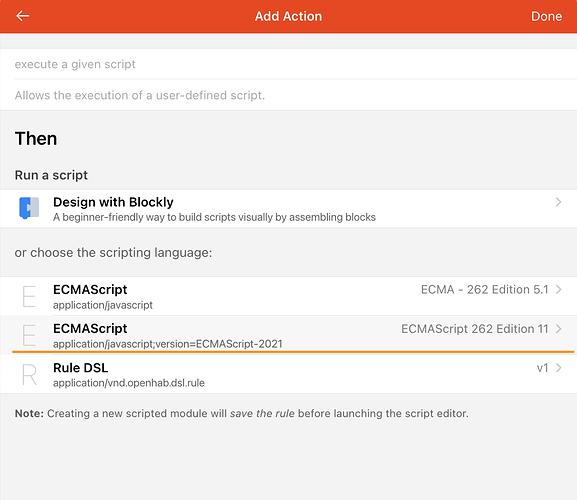
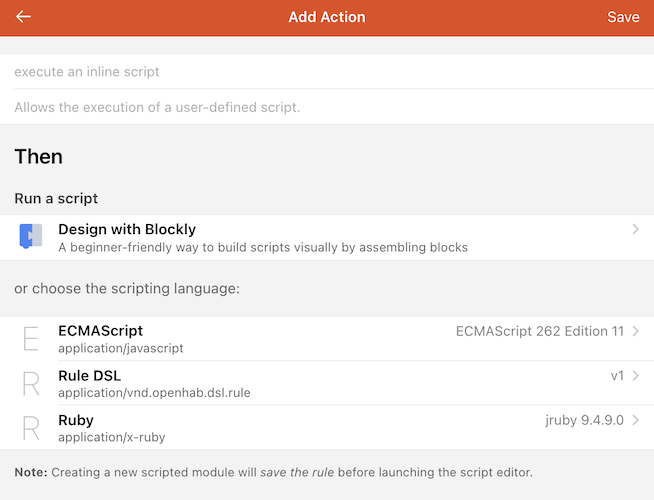
Add JRuby examples in rules_advanced.md (#2451)
* Add JRuby examples in rules_advanced.md

* requested changes

* Apply requested changes

* address review change requests

---------

diff --git a/tutorials/getting_started/rules_advanced.md b/tutorials/getting_started/rules_advanced.md
@@ -16,18 +16,17 @@ For what ever reason, openHAB has you covered with text based Script Actions and
 openHAB supports a growing list of programming languages in which rules can be written.
 openHAB comes with the following languages to choose from:
 
-| Language                                                                 | Details                                                                                                                                                                                                                                             | Intended Audience                                                                                                    |
-|--------------------------------------------------------------------------|-----------------------------------------------------------------------------------------------------------------------------------------------------------------------------------------------------------------------------------------------------|----------------------------------------------------------------------------------------------------------------------|
-| [Blockly]({{base}}/configuration/blockly/)           | See the previous page                                                                                                                                                                                                                               | Non-developers                                                                                                       |
-| [Rules DSL]({{base}}/configuration/rules-dsl.html)   | A programming language developed specifically for openHAB based on the Xtend.                                                                                                                                                                       | Long time openHAB users                                                                                              |
-| [ECMAScript 5.1]({{base}}/configuration/jsr223.html) | An older version of JavaScript built into Java Virtual Machine 14 and before. It's the language Blockly "compiles" into which can be a powerful learning tool (i.e. build a rule in Blockly and examine the code it generates to see how it works). | Not recommended for use, will go away at sometime soon (Blockly will be updated at that time to use an alternative). |
+| Language                                           | Details                                                                                                       | Intended Audience       |
+| -------------------------------------------------- | ------------------------------------------------------------------------------------------------------------- | ----------------------- |
+| [Blockly]({{base}}/configuration/blockly/)         | See the previous page                                                                                         | Non-developers          |
+| [Rules DSL]({{base}}/configuration/rules-dsl.html) | A programming language developed specifically for openHAB based on [Xtend](https://eclipse.dev/Xtext/xtend/). | Long time openHAB users |
 
 In addition to these default choices, one can install a number of different languages as an Automation add-on.
-Such diverse languages as Python, Ruby, Groovy, Java, and more are available with more to come.
+Such diverse languages as [JavaScript](/addons/automation/jsscripting/), [Ruby](/addons/automation/jrubyscripting), [Python](/addons/automation/jythonscripting/), [Groovy](/addons/automation/groovyscripting/), Java, and more are available with more to come.
 See the add-on docs for the reference guide and specific information for how to use each individual add-on.
 Take note, not all automation add-ons support writing rules in the UI.
 
-For the rest of this tutorial we will use the [JavaScript Scripting add-on](/addons/automation/jsscripting/) which implements ECMAScript 2021 for Script Actions and Script Conditions in UI rules.
+For the rest of this tutorial we will show how to use the [JavaScript Scripting add-on](/addons/automation/jsscripting/) which implements ECMAScript 2021, and [JRuby Scripting add-on](/addons/automation/jrubyscripting) for Script Actions and Script Conditions in UI rules.
 See the add-on's reference for how to write rules in text files which is outside the scope of this tutorial.
 
 ## Installation
@@ -52,8 +51,26 @@ These libraries come in various forms and are installed in different ways but th
 - abstract some of the sometimes verbose series of steps requires to do something (e.g. access an Item's metadata) into a single function call.
 
 See the automation add-on's reference for how to access and install the Helper Library for your language of choice.
+
+:::: tabs
+
+::: tab JS
+
 In the case of JavaScript Scripting, the Helper Library comes with the add-on (nothing to install separately) and it is automatically imported into your rules for you (advanced users can turn off that auto import in MainUI Settings -> JS Scripting).
 To get the latest version of the Helper Library instead of waiting for the next release of OH, it can be installed using `npm`.
+
+:::
+
+::: tab JRuby
+
+Ruby scripting is implemented using the JRuby Scripting add-on.
+It will install its helper library by default, and it is automatically imported into your rules.
+The specific version used, along with any additional Ruby Gems, can be configured in Main UI Settings -> JRuby Scripting by modifying the `gems` setting.
+
+:::
+
+::::
+
 Again, see the add-on's reference for details.
 
 ## Creating a Rule
@@ -76,26 +93,51 @@ We will use the same trigger from the Blockly tutorial.
 
 ### Then: Actions
 
-Just like in Blockly, we will create a new Action but instead of choosing Blockly, we will choose ECMAScript 2021.
+Just like in Blockly, we will create a new Action but instead of choosing Blockly, we will choose `ECMAScript` or `Ruby`.
 
 ![select language](images/rules-advanced-select-lang.png)
 
 This will open a blank text field where you can start typing your code.
 This text field provides text highlighting and some code completion which helps with coding.
 
+As with the Blockly example, we want to start the rule using a log statement we can see in openhab.log when the rule runs.
+
+:::: tabs
+
+::: tab JS
+
 As previously mentioned, the Helper Library for this language comes with the add-on and is imported by default, so see the [JavaScript Scripting add-on's reference](/addons/automation/jsscripting/) for the full guide on how to do anything you might want to do.
 For help with general JavaScript coding, there are tons of tutorials and reference documents on the web a search away.
 
-As with the Blockly example, we want to start the rule using a log statement we can see in openhab.log when the rule runs.
 One can either use the [log actions](/addons/automation/jsscripting/#log) but most will find it easiest to use the more JavaScript native [`console`](/addons/automation/jsscripting/#console).
 
 ```javascript
 console.info('Motion was detected');
 ```
 
+:::
+
+::: tab JRuby
+
+If you are new to Ruby, check out [Ruby Basics](https://openhab.github.io/openhab-jruby/main/file.ruby-basics.html) for a quick overview of the language.
+The Ruby language and the [JRuby Helper Library](https://openhab.github.io/openhab-jruby/) offers a streamlined syntax for writing file-based and UI-based rules, making it easy and intuitive to work with openHAB constructs, while also delivering the full features of the Ruby language.
+
+```ruby
+logger.info "Motion was detected"
+```
+
+:::
+
+::::
+
 Save and test the rule by running it manually and verify you see this statement in the logs.
 
-Next we want to `sendCommand` to the light to turn it on.
+Next we want to send a command to the light to turn it on.
+
+:::: tabs
+
+::: tab JS
+
 Reading the docs we see that access to the Item registry is provided through [`Items`](/addons/automation/jsscripting/#items) where we can get access to a JavaScript Object that represents the Item.
 This Object has a `sendCommand()` function that takes the command.
 
@@ -104,9 +146,36 @@ console.info('Motion was detected');
 items.getItem('FrontPorchLight').sendCommand('ON');
 ```
 
+:::
+
+::: tab JRuby
+
+In JRuby, openHAB Items are represented directly by their names.
+You can also access them through the [items](https://openhab.github.io/openhab-jruby/main/OpenHAB/DSL.html#items-class_method) registry so you can find them using a string.
+The Item object has a generic [#command](https://openhab.github.io/openhab-jruby/main/OpenHAB/Core/Items/GenericItem.html#command-instance_method) method and also command methods specific for each item type in openHAB.
+
+```ruby
+logger.info "Motion was detected"
+FrontPorchLight.on # this sends the ON command to the Item
+
+# The following lines do the same thing
+# FrontPorchLight.command ON
+# items["FrontPorchLight"].on
+# items["FrontPorchLight"].command ON
+```
+
+:::
+
+::::
+
 Save and test and verify you see the log statement and the Item receive an ON command.
 
 Now we want to create a Timer to go off in 30 minutes.
+
+:::: tabs
+
+::: tab JS
+
 We find the Timer creation documented under [ScriptExecution](/addons/automation/jsscripting/#scriptexecution-actions).
 A Timer will execute a block of code passed to it as the second argument at the time specified by the first argument.
 
@@ -137,10 +206,37 @@ var lightsOut = function() {
 actions.ScriptExecution.createTimer(time.ZonedDateTime.now().plusMinutes(30), lightsOut);
 ```
 
+:::
+
+::: tab JRuby
+
+Timers are created by calling the [after](https://openhab.github.io/openhab-jruby/main/OpenHAB/DSL.html#after-class_method) method.
+It accepts a [Duration](https://openhab.github.io/openhab-jruby/main/OpenHAB/CoreExt/Java/Duration.html), a Ruby [Time](https://docs.ruby-lang.org/en/master/Time.htmll), or a Java [ZonedDateTime](https://openhab.github.io/openhab-jruby/main/OpenHAB/CoreExt/Java/ZonedDateTime.html) object to specify when the timer should execute.
+Most of the time, a Duration is used, and the helper library offers a [convenient syntax](https://openhab.github.io/openhab-jruby/main/index.html#durations), e.g. `30.minutes`, to create a Duration object.
+
+```ruby
+logger.info "Motion was detected"
+FrontPorchLight.on
+
+after 30.minutes do
+  logger.info "No more motion, turning off the light"
+  FrontPorchLight.off
+end
+```
+
+:::
+
+::::
+
 Save and test that you see the log statement and the Item receive the `ON` command and 30 minutes later the second log statement and the `OFF` command.
 (hint, change the time passed to the timer to something smaller to make testing easier then change it back once things are working).
 
 Now all we are lacking is the ability to reschedule that timer if motion is seen again in the 30 minute period.
+
+:::: tabs
+
+::: tab JS
+
 Looking back at the docs we find the [cache](/addons/automation/jsscripting/#cache).
 This is a map of key/value pairs that exists outside of the rule.
 Given that position it is able to share data between different rules or between runs of the same rule.
@@ -174,18 +270,53 @@ Another benefit of saving the timer in the `cache` is that it will be cancelled 
 This will prevent the timer from executing after the original script had been removed or reloaded.
 Care must still be taken within the timer function not to reschedule itself if it has been cancelled.
 
+:::
+
+::: tab JRuby
+
+In JRuby, an easy way to reschedule the same timer is done by providing a unique `id` to the timer.
+This is called a [reentrant timer](https://openhab.github.io/openhab-jruby/main/OpenHAB/DSL.html#reentrant-timers).
+When [after](https://openhab.github.io/openhab-jruby/main/OpenHAB/DSL.html#after-class_method) with an `id` is executed the first time, a new timer will be created.
+Subsequent executions will reschedule the same timer instead of creating a new timer.
+
+The most convenient `id` to use is the Item object for which the timer is operating, but you can use anything as the ID, e.g. a String, a number, the rule uid, etc.
+
+```ruby
+logger.info "Motion was detected"
+FrontPorchLight.on
+
+after 30.minutes, id: FrontPorchLight do |timer|
+  logger.info "No more motion, turning off the light"
+  timer.id.off # We can do this because the Timer's id was set to the item object
+               # It is the same as FrontPorchLight.off
+end
+```
+
+The JRuby helper library manages the timer and rescheduling internally to reduce the need for repetitive code.
+Full flexibility to work and manipulate the timer is available for more advanced use.
+
+:::
+
+::::
+
 Save and test that the rule sends the on and off commands as described.
 
 ### But only if: Conditions
 
 Now we want the rule to only execute between sunset and 23:00.
-Create a new Condition and choose ECMAScript 2021 as the language.
+Create a new Condition and choose `ECMAScript` or `Ruby` as the language.
+This doesn't have to be the same language as the one chosen for the Script Action above.
 Just like with the Script Action, the Helper Library is available by default.
 
 As discussed in the Blockly tutorial, the last line of a condition must evaluate to `true` or `false`.
 When `true` the rule will run, otherwise it's skipped.
 
 Sunset is available in an Item called `Sunset` and we need to test to see if `now` is between then and `23:00`.
+
+:::: tabs
+
+::: tab JS
+
 In order to do that we need to convert the `Sunset` state to a JS-Joda date time.
 
 Looking at the docs for [`Item`](/addons/automation/jsscripting/#items) we see that the Helper Library `Item` Class will return the String representation of the Item's state by default.
@@ -211,6 +342,30 @@ var endTime = time.ZonedDateTime.now().withHour(23).withMinute(0).withSecond(0).
 now.isAfter(sunset) && now.isBefore(endTime)
 ```
 
+:::
+
+::: tab JRuby
+
+```ruby
+Time.now.between?(Sunset.state.to_s.."23:00")
+
+# Alternative code:
+# ZonedDateTime.now.between?(Sunset.state.to_s.."23:00")
+# Time.now.between?(Sunset.state, Time.parse("23:00")) # Two arguments of different date/time types, but they are compatible
+# Time.now >= Sunset.state && Time.now <= Time.parse("23:00")
+# etc.
+```
+
+The [#between?](https://openhab.github.io/openhab-jruby/main/OpenHAB/CoreExt/Between.html#between%3F-instance_method) helper method is available on all Ruby and Java time types.
+It takes a Ruby [Range](https://docs.ruby-lang.org/en/master/Range.html) as its argument, or two time types to perform an inclusive range comparison.
+
+Note that in JRuby, Ruby Time, Java ZonedDateTime and Instant, openHAB DateTimeType type (in the above example, the item's state), and several other time related types can all work interchangeably without any explicit conversions.
+See [Working with Time](https://openhab.github.io/openhab-jruby/main/index.html#time) for more details.
+
+:::
+
+::::
+
 ## Advanced Topics
 
 ### Libraries
@@ -218,6 +373,10 @@ now.isAfter(sunset) && now.isBefore(endTime)
 Most of the languages support installation and importing of third party libraries.
 Many of the languages will have special tools to download and install these libraries and there might be extra requirements to use them in openHAB.
 See the add-on's docs and the forum for details on the automation add-on chosen.
+
+:::: tabs
+
+::: tab JS
 
 For JS Scripting, `npm` is supported for the installation of third party libraries.
 Run the `npm` command from the `$OH_CONF/automation/js` folder.
@@ -233,6 +392,52 @@ That keeps it from being modified or overwritten by `npm` when upgrading or inst
 
 There are several third party openHAB specific libraries on `npm` already.
 Search the forum for details.
+
+:::
+
+::: tab JRuby
+
+You can install JRuby-compatible Gems from [rubygems.org](https://rubygems.org) by listing them in the JRuby Script add-on [configurations](https://openhab.github.io/openhab-jruby/main/index.html#configuration).
+Alternatively, [inline Bundler](https://bundler.io/guides/bundler_in_a_single_file_ruby_script.html) is available from inside your script.
+
+```ruby
+gemfile do
+  source "https://rubygems.org"
+  gem "faraday", "~> 2.12", ">= 2.12.2"
+end
+```
+
+[Personal libraries](https://openhab.github.io/openhab-jruby/main/index.html#shared-code) that contain your custom reusable constants, methods, modules, and classes can be created and used inside your Script Actions and Conditions.
+Simply save a `.rb` file that contains your code in `$OH_CONF/automation/ruby/lib/` folder, then `require` it in your script.
+
+For example, a personal library file in `$OH_CONF/automation/ruby/lib/mylibs.rb`:
+
+```ruby
+DESTINATION_EMAIL = "myemail@gmail.com"
+
+def broadcast_alert(msg)
+  Notification.send msg, title: "Alert!"
+  things["mail:smtp:local"].send_mail(DESTINATION_EMAIL, "openHAB Alert", msg)
+end
+```
+
+Usage in Script Action:
+
+```ruby
+require "mylibs"
+
+if event.open?
+  after 30.minutes, id: event.item do
+    broadcast_alert "The Garage Door has been left open!"
+  end
+else
+  timers.cancel(event.item)
+end
+```
+
+:::
+
+::::
 
 ### Debugging
 
